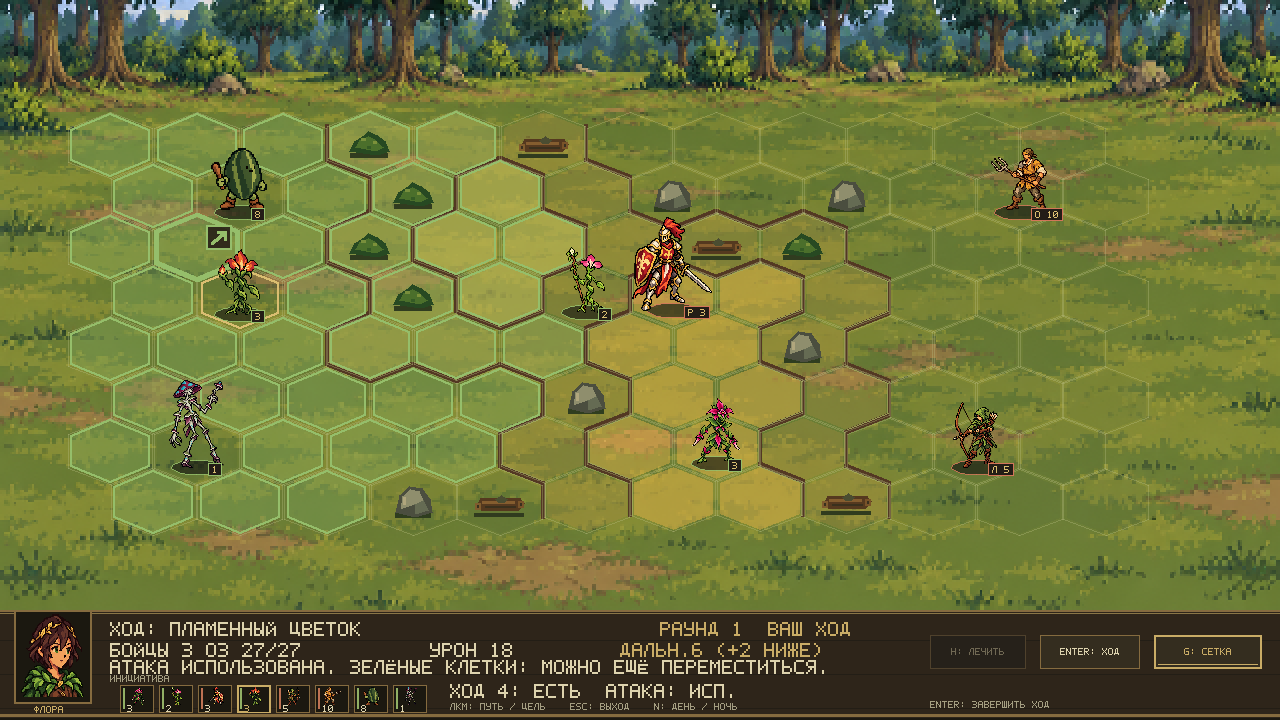
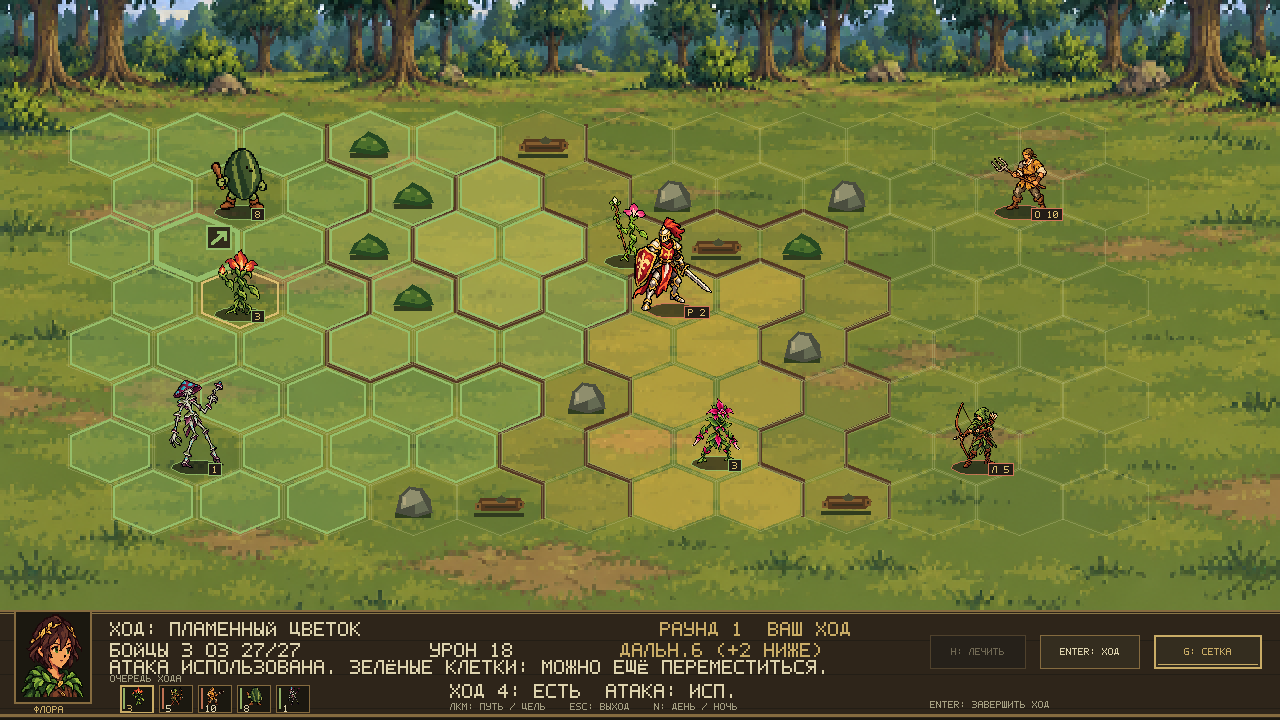
fix(ui): show when battle commands are temporarily locked (fixes #53)

Changed region(s): [[0.0938, 0.9167, 0.3438, 1.0], [0.4375, 0.275, 0.5, 0.4583]]

diff --git a/src/Game.MonoGame/Screens/BattleScreen.cs b/src/Game.MonoGame/Screens/BattleScreen.cs
@@ -45,6 +45,7 @@ internal sealed class BattleScreen : IGameScreen
     private BattleAttackEffect? _attackEffect;
     private string _message = "ЛКМ: ПОКАЗАТЬ ПУТЬ. ПОВТОРНАЯ ЛКМ: ПЕРЕМЕСТИТЬ ОТРЯД.";
     private Battle Battle => _interaction.Battle;
+    private bool CanIssueCommands => BattleHud.CanIssueCommands(Battle, _actionSeconds > 0f);
     private static readonly Color Gold = new(218, 190, 113);
     private static readonly Color Green = new(149, 190, 107);
     private static readonly Color Red = new(210, 118, 89);
@@ -123,10 +124,23 @@ internal sealed class BattleScreen : IGameScreen
             _message = "ЗЕЛЁНЫЙ: ХОД. СВЕТЛОЕ ЗОЛОТО С ТЁМНОЙ ОБВОДКОЙ: ДАЛЬНОСТЬ. КРАСНЫЙ: ЦЕЛЬ.";
             return;
         }
-        if (capture is BattleCaptureStage.Target or BattleCaptureStage.AfterAttack)
+        if (capture is BattleCaptureStage.Target or BattleCaptureStage.AfterAttack or BattleCaptureStage.ActionLock)
         {
-            _hover = BattleCaptureSetup.Advance(Battle, capture);
+            _hover = BattleCaptureSetup.Advance(Battle,
+                capture == BattleCaptureStage.ActionLock ? BattleCaptureStage.Target : capture);
             RefreshReachable();
+            if (capture == BattleCaptureStage.ActionLock)
+            {
+                var actor = Battle.ActiveUnit!;
+                var target = Battle.Units.Single(unit => unit.IsAlive && unit.Position == _hover);
+                if (!Battle.Attack(actor.Id, target.Id))
+                    throw new InvalidOperationException("Cannot execute the action-lock capture attack.");
+                BeginAttackAnimation(actor, target);
+                for (var frame = 0; frame < 4; frame++) _attackEffect!.Advance(0.1f);
+                _actionSeconds = 0.4f;
+                RefreshReachable();
+                return;
+            }
             _message = "КРАСНЫЙ КОНТУР: ЦЕЛЬ МОЖНО АТАКОВАТЬ СЕЙЧАС.";
             if (capture == BattleCaptureStage.AfterAttack)
             {
@@ -402,14 +416,17 @@ internal sealed class BattleScreen : IGameScreen
             DrawUnit(unit);
         _attackEffect?.Draw(_canvas);
         DrawActionCursor();
-        var hovered = _hover is { } cell ? Battle.Units.FirstOrDefault(unit => unit.IsAlive && unit.Position == cell) : null;
-        _hud.Draw(Battle, Battle.IsFinished ? "БОЙ ЗАВЕРШЁН." : DescribeHover(hovered), hovered, _healMode, _showGrid);
+        var hovered = _actionSeconds <= 0f && _hover is { } cell
+            ? Battle.Units.FirstOrDefault(unit => unit.IsAlive && unit.Position == cell) : null;
+        _hud.Draw(Battle, _actionSeconds > 0f ? "ДОЖДИТЕСЬ ЗАВЕРШЕНИЯ ДЕЙСТВИЯ."
+            : Battle.IsFinished ? "БОЙ ЗАВЕРШЁН." : DescribeHover(hovered), hovered, _healMode, _showGrid,
+            actionInProgress: _actionSeconds > 0f);
         if (Battle.IsFinished && _actionSeconds <= 0f) DrawResult();
     }
 
     private void DrawTacticalOverlay()
     {
-        if (_interaction.IsPlayerTurn && !_healMode)
+        if (CanIssueCommands && !_healMode)
         {
             // Moving and attacking are independent allowances: an attack does not consume movement.
             foreach (var coordinate in _reachable)
@@ -441,7 +458,7 @@ internal sealed class BattleScreen : IGameScreen
                 }
             }
         }
-        if (!_healMode)
+        if (CanIssueCommands && !_healMode)
         {
             var path = _interaction.SelectedPath;
             var possible = Battle.ActiveUnit is { } active && !Battle.HasMoved(active.Id) && path.Cost <= active.Movement;
@@ -452,7 +469,7 @@ internal sealed class BattleScreen : IGameScreen
         if (Battle.ActiveUnit is { } actor)
         {
             _canvas.Outline(_field.Layout.Corners(Battle.Map.GetTile(actor.Position)!, 6), Gold, 2);
-            if (_interaction.IsPlayerTurn && !Battle.HasAttacked(actor.Id))
+            if (CanIssueCommands && !Battle.HasAttacked(actor.Id))
             foreach (var unit in Battle.Units.Where(unit => unit.IsAlive && unit.Id != actor.Id))
             {
                 var healable = _healMode && unit.Side == actor.Side && unit.RemainingHitPoints < unit.MaximumHitPointsAtBattleStart;
@@ -464,7 +481,7 @@ internal sealed class BattleScreen : IGameScreen
                 }
             }
         }
-        if (_hover is { } hover)
+        if (_actionSeconds <= 0f && _hover is { } hover)
             _canvas.Outline(_field.Layout.Corners(Battle.Map.GetTile(hover)!, 2),
                 CursorColor(GetCursorKind(hover)), 3);
     }
@@ -482,7 +499,7 @@ internal sealed class BattleScreen : IGameScreen
 
     private void DrawActionCursor()
     {
-        if (_hover is not { } coordinate || !_interaction.IsPlayerTurn) return;
+        if (_hover is not { } coordinate || !CanIssueCommands) return;
         var kind = GetCursorKind(coordinate);
         var previewPoint = _field.Layout.Center(Battle.Map.GetTile(coordinate)!);
         var screenshotCursor = _currentMouse.X == 0 && _currentMouse.Y == 0;

diff --git a/src/Game.MonoGame/GameLaunchOptions.cs b/src/Game.MonoGame/GameLaunchOptions.cs
@@ -2,7 +2,7 @@ using System.Globalization;
 
 namespace Game.MonoGame;
 
-public enum BattleCaptureStage { Opening, Healing, Result, Arrow, Magic, ArrowImpact, MagicImpact, Melee, Range, Target, RangedTarget, HolyFire, BlockedShot, AfterAttack, SpriteTarget, Initiative, HunterAttack, HunterRest }
+public enum BattleCaptureStage { Opening, Healing, Result, Arrow, Magic, ArrowImpact, MagicImpact, Melee, Range, Target, RangedTarget, HolyFire, BlockedShot, AfterAttack, SpriteTarget, Initiative, HunterAttack, HunterRest, ActionLock }
 public enum CampaignCaptureStage { None, EmptyEncounter, ReadyEncounter, Combat, Result, Returned, AfterChoice }
 
 /// <summary>Launch settings shared by interactive previews and reproducible screenshots.</summary>
@@ -79,6 +79,7 @@ public sealed record GameLaunchOptions
                 case "--screenshot-combat-after-attack":
                 case "--screenshot-combat-sprite-target":
                 case "--screenshot-combat-initiative":
+                case "--screenshot-combat-action":
                 case "--screenshot-combat-hunter":
                 case "--screenshot-combat-hunter-rest":
                 case "--screenshot-combat-arrow-impact":
@@ -109,6 +110,7 @@ public sealed record GameLaunchOptions
             or "--screenshot-combat-blocked" or "--screenshot-combat-after-attack"
             or "--screenshot-combat-sprite-target"
             or "--screenshot-combat-initiative"
+            or "--screenshot-combat-action"
             or "--screenshot-combat-hunter" or "--screenshot-combat-hunter-rest"
             or "--screenshot-combat-arrow-impact" or "--screenshot-combat-magic-impact"
             or "--screenshot-combat-melee"
@@ -144,6 +146,7 @@ public sealed record GameLaunchOptions
                 "--screenshot-combat-after-attack" => BattleCaptureStage.AfterAttack,
                 "--screenshot-combat-sprite-target" => BattleCaptureStage.SpriteTarget,
                 "--screenshot-combat-initiative" => BattleCaptureStage.Initiative,
+                "--screenshot-combat-action" => BattleCaptureStage.ActionLock,
                 "--screenshot-combat-hunter" => BattleCaptureStage.HunterAttack,
                 "--screenshot-combat-hunter-rest" => BattleCaptureStage.HunterRest,
                 "--screenshot-combat-arrow-impact" => BattleCaptureStage.ArrowImpact,

diff --git a/src/Game.MonoGame/Rendering/BattleHud.cs b/src/Game.MonoGame/Rendering/BattleHud.cs
@@ -7,6 +7,9 @@ namespace Game.MonoGame.Rendering;
 /// <summary>Compact wood-and-bronze battle commands, unit details, and initiative strip.</summary>
 internal sealed class BattleHud(PixelCanvas canvas, AssetCatalog assets, UnitCatalog units)
 {
+    internal static bool CanIssueCommands(Battle battle, bool actionInProgress) =>
+        !actionInProgress && !battle.IsFinished && battle.ActiveUnit is { IsAlive: true, Side: BattleSide.Player };
+
     public static readonly Rectangle EndTurnButton = new(1040, 635, 100, 34);
     public static readonly Rectangle HealButton = new(930, 635, 96, 34);
     public static readonly Rectangle GridButton = new(1154, 635, 108, 34);
@@ -21,12 +24,13 @@ internal sealed class BattleHud(PixelCanvas canvas, AssetCatalog assets, UnitCat
     private static readonly Color Ally = new(145, 176, 101);
     private static readonly Color Enemy = new(190, 114, 83);
 
-    public void Draw(Battle battle, string message, BattleUnit? hoveredUnit, bool healMode, bool showGrid)
+    public void Draw(Battle battle, string message, BattleUnit? hoveredUnit, bool healMode, bool showGrid,
+        bool actionInProgress = false)
     {
         DrawRail();
         var active = battle.ActiveUnit;
         var inspected = hoveredUnit ?? active;
-        var playerTurn = !battle.IsFinished && active?.Side == BattleSide.Player;
+        var playerTurn = CanIssueCommands(battle, actionInProgress);
         var canHeal = playerTurn && active is { Ability: UnitAbility.HealAlly } &&
                       !battle.HasAttacked(active.Id);
         var canChangeMode = playerTurn && active is { Ability: UnitAbility.RadiantModes } &&
@@ -66,7 +70,7 @@ internal sealed class BattleHud(PixelCanvas canvas, AssetCatalog assets, UnitCat
         DrawButton(EndTurnButton, "ENTER: ХОД", playerTurn, false);
         DrawButton(GridButton, "G: СЕТКА", true, showGrid);
         if (healMode && canHeal) _font.Draw("ЛЕЧЕНИЕ: ВЫБЕРИТЕ СОЮЗНИКА", 930, 684, Muted, 1);
-        _font.Draw("ENTER: ЗАВЕРШИТЬ ХОД", 930, 701, Muted, 1);
+        _font.Draw(actionInProgress ? "ОТРЯД ДЕЙСТВУЕТ" : "ENTER: ЗАВЕРШИТЬ ХОД", 930, 701, Muted, 1);
     }
 
     private void DrawRail()

diff --git a/tests/Game.Tests/BattleHudCommandTests.cs b/tests/Game.Tests/BattleHudCommandTests.cs
@@ -1,0 +1,52 @@
+using Game.Core.Combat;
+using Game.Core.Geometry;
+using Game.MonoGame.Rendering;
+using Xunit;
+
+namespace Game.Tests;
+
+public sealed class BattleHudCommandTests
+{
+    [Fact]
+    public void PlayerCommands_AreUnavailableDuringActionAndReturnAfterIt()
+    {
+        var battle = Create();
+        Assert.False(BattleHud.CanIssueCommands(battle, false));
+        battle.StartRound();
+        Assert.True(BattleHud.CanIssueCommands(battle, false));
+        Assert.False(BattleHud.CanIssueCommands(battle, true));
+        Assert.True(BattleHud.CanIssueCommands(battle, false));
+        Assert.False(battle.HasMoved("player"));
+        Assert.False(battle.HasAttacked("player"));
+    }
+
+    [Fact]
+    public void EnemyTurnAndFinishedBattle_DoNotEnablePlayerCommands()
+    {
+        var battle = Create();
+        battle.StartRound();
+        battle.EndActivation();
+        Assert.False(BattleHud.CanIssueCommands(battle, false));
+        battle.EndActivation();
+        battle.StartRound();
+        Assert.True(battle.Attack("player", "enemy"));
+        Assert.True(battle.IsFinished);
+        Assert.False(BattleHud.CanIssueCommands(battle, false));
+    }
+
+    [Fact]
+    public void NonlethalAttack_DoesNotDisableRemainingMovementAfterAnimation()
+    {
+        var battle = Create(enemyCount: 2);
+        battle.StartRound();
+        Assert.True(battle.Attack("player", "enemy"));
+        Assert.False(BattleHud.CanIssueCommands(battle, true));
+        Assert.True(BattleHud.CanIssueCommands(battle, false));
+        Assert.True(battle.Move("player", new(0, 1)));
+    }
+
+    private static Battle Create(int enemyCount = 1) => new(new BattleMap([
+        new BattleTile(new(0, 0)), new BattleTile(new(1, 0)), new BattleTile(new(0, 1))]), [
+        new BattleUnit("player", BattleSide.Player, new(0, 0), 1, 10, 10, 8, 2, 1, false),
+        new BattleUnit("enemy", BattleSide.Enemy, new(1, 0), enemyCount, 10, 2, 1, 2, 1, false)]);
+}

diff --git a/tests/Game.Tests/GameLaunchOptionsTests.cs b/tests/Game.Tests/GameLaunchOptionsTests.cs
@@ -34,6 +34,7 @@ public sealed class GameLaunchOptionsTests
     [InlineData("--screenshot-combat-after-attack")]
     [InlineData("--screenshot-combat-sprite-target")]
     [InlineData("--screenshot-combat-initiative")]
+    [InlineData("--screenshot-combat-action")]
     [InlineData("--screenshot-combat-hunter")]
     [InlineData("--screenshot-combat-hunter-rest")]
     [InlineData("--screenshot-combat-arrow-impact")]
@@ -64,6 +65,7 @@ public sealed class GameLaunchOptionsTests
             mode.EndsWith("-after-attack") ? BattleCaptureStage.AfterAttack :
             mode.EndsWith("-sprite-target") ? BattleCaptureStage.SpriteTarget :
             mode.EndsWith("-initiative") ? BattleCaptureStage.Initiative :
+            mode.EndsWith("-action") ? BattleCaptureStage.ActionLock :
             mode.EndsWith("-hunter") ? BattleCaptureStage.HunterAttack :
             mode.EndsWith("-hunter-rest") ? BattleCaptureStage.HunterRest : BattleCaptureStage.Opening,
             options.CombatCapture);

diff --git a/tests/Game.Tests/Combat/BattleDemoTests.cs b/tests/Game.Tests/Combat/BattleDemoTests.cs
@@ -8,6 +8,18 @@ namespace Game.Tests.Combat;
 
 public sealed class BattleDemoTests
 {
+    [Fact]
+    public void AfterAttackCapture_ActuallyRetainsUnusedMovementForItsVisiblePromise()
+    {
+        var battle = BattleDemo.Create(Catalog(), 1729).Battle;
+        BattleCaptureSetup.Advance(battle, BattleCaptureStage.AfterAttack);
+        var actor = battle.ActiveUnit!;
+        Assert.True(battle.HasAttacked(actor.Id));
+        Assert.False(battle.HasMoved(actor.Id));
+        var interaction = new BattleInteraction(battle);
+        Assert.Contains(battle.Map.Tiles, tile => interaction.GetCellAction(tile.Coordinate) == BattleCellAction.Move);
+    }
+
     [Theory]
     [InlineData(BattleCaptureStage.HunterRest)]
     [InlineData(BattleCaptureStage.HunterAttack)]

diff --git a/src/Game.MonoGame/BattleCaptureSetup.cs b/src/Game.MonoGame/BattleCaptureSetup.cs
@@ -32,7 +32,7 @@ public static class BattleCaptureSetup
             {
                 var target = battle.Units.FirstOrDefault(unit => unit.IsAlive && unit.Side != active.Side &&
                     BattleRules.CanAttack(active, unit, battle.Map));
-                if (target is not null)
+                if (target is not null && (stage != BattleCaptureStage.AfterAttack || !battle.HasMoved(active.Id)))
                 {
                     if (stage == BattleCaptureStage.AfterAttack && !battle.Attack(active.Id, target.Id))
                         throw new InvalidOperationException("Cannot execute the capture attack.");

diff --git a/docs/night-review-2026-10-21.md b/docs/night-review-2026-10-21.md
@@ -24,10 +24,11 @@
 - Атакующая поза ловчего откалибрована отдельно: присед больше не растягивается до высоты стойки. Масштаб атакующей позы уменьшен до 0,88 прежнего, с сохранением нижней опоры и центра. Общая поправка к другим людям не применяется: их исходники имеют другие пропорции.
 - Пиксельный шрифт отображает длинное/короткое тире, Unicode-минус и восклицательный знак. Подсказки исследования и найма больше не получают прямоугольник вместо тире; шаг и размеры текста сохранены.
 - ИИ идёт по настоящему A* маршруту вокруг стены, даже когда первый шаг не приближает к цели по прямой. Путь пересчитывается между ходами, занятые клетки исключаются, движение ограничено запасом отряда. Сохранён приоритет немедленной атаки и подход стрелка к изолированной цели для выстрела.
+- Во время действия отряда боевые кнопки приглушены, курсор команды и интерактивные области скрыты: они больше не обещают ввод, который временно игнорируется. Очередь и характеристики остаются, G/N работают. После завершения действия управление возвращается; атака не расходует неиспользованное движение.
 
 ## Проверено
 
-491 тест проходит. Новые проверки сравнивают прогноз с фактической потерей HP, проверяют старые сохранения, препятствия, сюжетные проходы, независимость движения от частоты кадров, геометрию анимаций, выбор непрозрачных пикселей уменьшенного/отражённого спрайта, наличие актуальных idle-листов в сборке, видимость точки после завершённого выбора, подход ко всем ориентирам и восстановление позиции рядом с NPC. Проверена очередь десяти стеков после восьми ходов, гибели и обращения, при равной скорости и смене раунда. Три проверки ввода найма сначала воспроизвели случайную покупку/закрытие на удерживаемом нажатии, затем прошли после исправления. Проверка ловчего сначала воспроизвела растягивание приседа; новые кадры доходят до разрешённой атаки настоящими командами боя. Проверены недостающие глифы пунктуации и сохранение прописного отображения кириллицы/латиницы. `git diff --check` без ошибок.
+496 тестов проходят. Новые проверки сравнивают прогноз с фактической потерей HP, проверяют старые сохранения, препятствия, сюжетные проходы, независимость движения от частоты кадров, геометрию анимаций, выбор непрозрачных пикселей уменьшенного/отражённого спрайта, наличие актуальных idle-листов в сборке, видимость точки после завершённого выбора, подход ко всем ориентирам и восстановление позиции рядом с NPC. Проверена очередь десяти стеков после восьми ходов, гибели и обращения, при равной скорости и смене раунда. Три проверки ввода найма сначала воспроизвели случайную покупку/закрытие на удерживаемом нажатии, затем прошли после исправления. Проверка ловчего сначала воспроизвела растягивание приседа; новые кадры доходят до разрешённой атаки настоящими командами боя. Проверены недостающие глифы пунктуации и сохранение прописного отображения кириллицы/латиницы. `git diff --check` без ошибок.
 
 Визуальный ревьювер проверил новую позу инквизитора и дневную, ночную и лечебную версии панели. Найденная им рассинхронизация выстрела исправлена. Это проверка конкретных кадров и кода; она не заменяет длительное ручное прохождение автором.
 
@@ -38,6 +39,7 @@
 - [Наведение на верх модели](screenshots/combat-sprite-target-current.png)
 - [Перекрытая линия огня](screenshots/combat-blocked-shot-current.png)
 - [Оставшееся движение после атаки](screenshots/combat-after-attack-current.png)
+- [Ожидание завершения текущего действия](screenshots/combat-action-busy-current.png)
 - [Очередь в конце раунда боя 5 на 5](screenshots/combat-initiative-current.png)
 - [Лечение](screenshots/combat-hud-heal-current.png)
 - [Ночной бой](screenshots/combat-hud-night-current.png)

diff --git a/README.md b/README.md
@@ -36,6 +36,8 @@ Idle людей обновлены до v2 по текущим боевым об
 
 Юнита можно выбрать по видимой модели или подписи численности, включая верх высоких спрайтов над соседним рядом гексов. Прозрачные промежутки пропускают клик на землю. [Наведение на голову рыцаря](docs/screenshots/combat-sprite-target-current.png).
 
+Пока отряд выполняет действие, боевые кнопки приглушены, курсор команды и интерактивная подсветка скрыты. После его завершения управление возвращается; очередь и характеристики остаются видны. [Пример текущего действия](docs/screenshots/combat-action-busy-current.png).
+
 ## Первая кампания: остров трёх корней
 
 Проходимость описывается полигонами в `content/maps/flora-01.json`: разрешённые области, отдельные препятствия и сюжетные преграды. Герой движется по сглаженному пути к точной цели; бои используют собственную гекс-сетку. Точная позиция сохраняется автоматически, старые сохранения поддерживаются.
